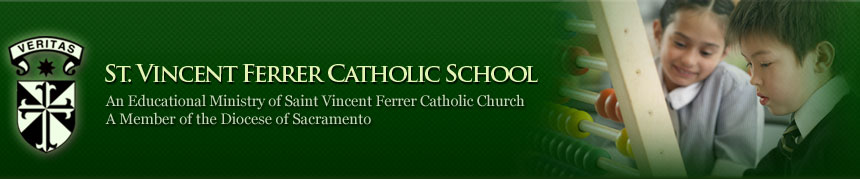
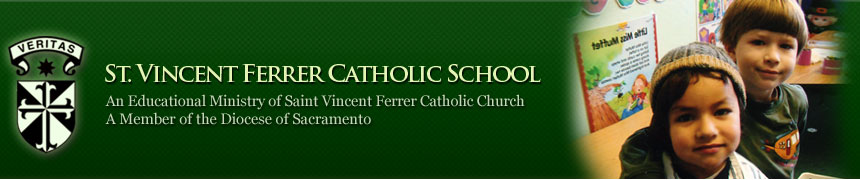
[FIX] New Images added.

diff --git a/preschool.html b/preschool.html
@@ -10,7 +10,7 @@
     <div id="page-wrap">
       <div id="header">
         <h1>
-          <a href="http://www.svfsvallejo.org/" id="logo"><img src="images/home-header.jpg" id="top-image" alt="Saint Vincent Ferrer Catholic School" width="860px" height="180px" /></a>
+          <a href="http://www.svfsvallejo.org/" id="logo"><img src="images/header-preschool.jpg" id="top-image" alt="Saint Vincent Ferrer Catholic School" width="860px" height="180px" /></a>
         </h1>
         <div class="slideshow">
           <!-- Slideshow here -->
@@ -36,7 +36,7 @@
             <div class="top">&nbsp;</div>
             <div class="mid">
               <ul class="mainlinks">
-                <li class="current"><a href="program.html">Program</a></li>
+                <li class="current"><a href="preschool.html">Program</a></li>
                 <li><a href="approach.html">Approach</a></li>
                 <li><a href="contact-us.html">Contact Us</a></li>
               </ul>

diff --git a/approach.html b/approach.html
@@ -10,7 +10,7 @@
     <div id="page-wrap">
       <div id="header">
         <h1>
-          <a href="http://www.svfsvallejo.org/" id="logo"><img src="images/home-header.jpg" id="top-image" alt="Saint Vincent Ferrer Catholic School" width="860px" height="180px" /></a>
+          <a href="http://www.svfsvallejo.org/" id="logo"><img src="images/header-preschool.jpg" id="top-image" alt="Saint Vincent Ferrer Catholic School" width="860px" height="180px" /></a>
         </h1>
         <div class="slideshow">
           <!-- Slideshow here -->
@@ -36,7 +36,7 @@
             <div class="top">&nbsp;</div>
             <div class="mid">
               <ul class="mainlinks">
-                <li><a href="program.html">Program</a></li>
+                <li><a href="preschool.html">Program</a></li>
                 <li class="current"><a href="approach.html">Approach</a></li>
                 <li><a href="contact-us.html">Contact Us</a></li>
               </ul>

diff --git a/athletics.html b/athletics.html
@@ -10,7 +10,7 @@
     <div id="page-wrap">
       <div id="header">
         <h1>
-          <a href="http://www.svfsvallejo.org/" id="logo"><img src="images/home-header.jpg" id="top-image" alt="Saint Vincent Ferrer Catholic School" width="860px" height="180px" /></a>
+          <a href="http://www.svfsvallejo.org/" id="logo"><img src="images/header-schoollife.jpg" id="top-image" alt="Saint Vincent Ferrer Catholic School" width="860px" height="180px" /></a>
         </h1>
         <div class="slideshow">
           <!-- Slideshow here -->

diff --git a/campus-scenes.html b/campus-scenes.html
@@ -10,7 +10,7 @@
     <div id="page-wrap">
       <div id="header">
         <h1>
-          <a href="http://www.svfsvallejo.org/" id="logo"><img src="images/home-header.jpg" id="top-image" alt="Saint Vincent Ferrer Catholic School" width="860px" height="180px" /></a>
+          <a href="http://www.svfsvallejo.org/" id="logo"><img src="images/header-schoollife.jpg" id="top-image" alt="Saint Vincent Ferrer Catholic School" width="860px" height="180px" /></a>
         </h1>
         <div class="slideshow">
           <!-- Slideshow here -->

diff --git a/field-trips.html b/field-trips.html
@@ -10,7 +10,7 @@
     <div id="page-wrap">
       <div id="header">
         <h1>
-          <a href="http://www.svfsvallejo.org/" id="logo"><img src="images/home-header.jpg" id="top-image" alt="Saint Vincent Ferrer Catholic School" width="860px" height="180px" /></a>
+          <a href="http://www.svfsvallejo.org/" id="logo"><img src="images/header-schoollife.jpg" id="top-image" alt="Saint Vincent Ferrer Catholic School" width="860px" height="180px" /></a>
         </h1>
         <div class="slideshow">
           <!-- Slideshow here -->

diff --git a/school-life.html b/school-life.html
@@ -10,7 +10,7 @@
     <div id="page-wrap">
       <div id="header">
         <h1>
-          <a href="http://www.svfsvallejo.org/" id="logo"><img src="images/home-header.jpg" id="top-image" alt="Saint Vincent Ferrer Catholic School" width="860px" height="180px" /></a>
+          <a href="http://www.svfsvallejo.org/" id="logo"><img src="images/header-schoollife.jpg" id="top-image" alt="Saint Vincent Ferrer Catholic School" width="860px" height="180px" /></a>
         </h1>
         <div class="slideshow">
           <!-- Slideshow here -->

diff --git a/student-council.html b/student-council.html
@@ -10,7 +10,7 @@
     <div id="page-wrap">
       <div id="header">
         <h1>
-          <a href="http://www.svfsvallejo.org/" id="logo"><img src="images/home-header.jpg" id="top-image" alt="Saint Vincent Ferrer Catholic School" width="860px" height="180px" /></a>
+          <a href="http://www.svfsvallejo.org/" id="logo"><img src="images/header-schoollife.jpg" id="top-image" alt="Saint Vincent Ferrer Catholic School" width="860px" height="180px" /></a>
         </h1>
         <div class="slideshow">
           <!-- Slideshow here -->

diff --git a/theme-days.html b/theme-days.html
@@ -10,7 +10,7 @@
     <div id="page-wrap">
       <div id="header">
         <h1>
-          <a href="http://www.svfsvallejo.org/" id="logo"><img src="images/home-header.jpg" id="top-image" alt="Saint Vincent Ferrer Catholic School" width="860px" height="180px" /></a>
+          <a href="http://www.svfsvallejo.org/" id="logo"><img src="images/header-schoollife.jpg" id="top-image" alt="Saint Vincent Ferrer Catholic School" width="860px" height="180px" /></a>
         </h1>
         <div class="slideshow">
           <!-- Slideshow here -->

diff --git a/academics.html b/academics.html
@@ -10,7 +10,7 @@
     <div id="page-wrap">
       <div id="header">
         <h1>
-          <a href="http://www.svfsvallejo.org/" id="logo"><img src="images/home-header.jpg" id="top-image" alt="Saint Vincent Ferrer Catholic School" width="860px" height="180px" /></a>
+          <a href="http://www.svfsvallejo.org/" id="logo"><img src="images/header-academics.jpg" id="top-image" alt="Saint Vincent Ferrer Catholic School" width="860px" height="180px" /></a>
         </h1>
         <div class="slideshow">
           <!-- Slideshow here -->

diff --git a/admission.html b/admission.html
@@ -10,7 +10,7 @@
     <div id="page-wrap">
       <div id="header">
         <h1>
-          <a href="http://www.svfsvallejo.org/" id="logo"><img src="images/home-header.jpg" id="top-image" alt="Saint Vincent Ferrer Catholic School" width="860px" height="180px" /></a>
+          <a href="http://www.svfsvallejo.org/" id="logo"><img src="images/header-admission.jpg" id="top-image" alt="Saint Vincent Ferrer Catholic School" width="860px" height="180px" /></a>
         </h1>
         <div class="slideshow">
           <!-- Slideshow here -->

diff --git a/application-form.html b/application-form.html
@@ -10,7 +10,7 @@
     <div id="page-wrap">
       <div id="header">
         <h1>
-          <a href="http://www.svfsvallejo.org/" id="logo"><img src="images/home-header.jpg" id="top-image" alt="Saint Vincent Ferrer Catholic School" width="860px" height="180px" /></a>
+          <a href="http://www.svfsvallejo.org/" id="logo"><img src="images/header-admission.jpg" id="top-image" alt="Saint Vincent Ferrer Catholic School" width="860px" height="180px" /></a>
         </h1>
         <div class="slideshow">
           <!-- Slideshow here -->

diff --git a/elementary.html b/elementary.html
@@ -10,7 +10,7 @@
     <div id="page-wrap">
       <div id="header">
         <h1>
-          <a href="http://www.svfsvallejo.org/" id="logo"><img src="images/home-header.jpg" id="top-image" alt="Saint Vincent Ferrer Catholic School" width="860px" height="180px" /></a>
+          <a href="http://www.svfsvallejo.org/" id="logo"><img src="images/header-academics.jpg" id="top-image" alt="Saint Vincent Ferrer Catholic School" width="860px" height="180px" /></a>
         </h1>
         <div class="slideshow">
           <!-- Slideshow here -->
